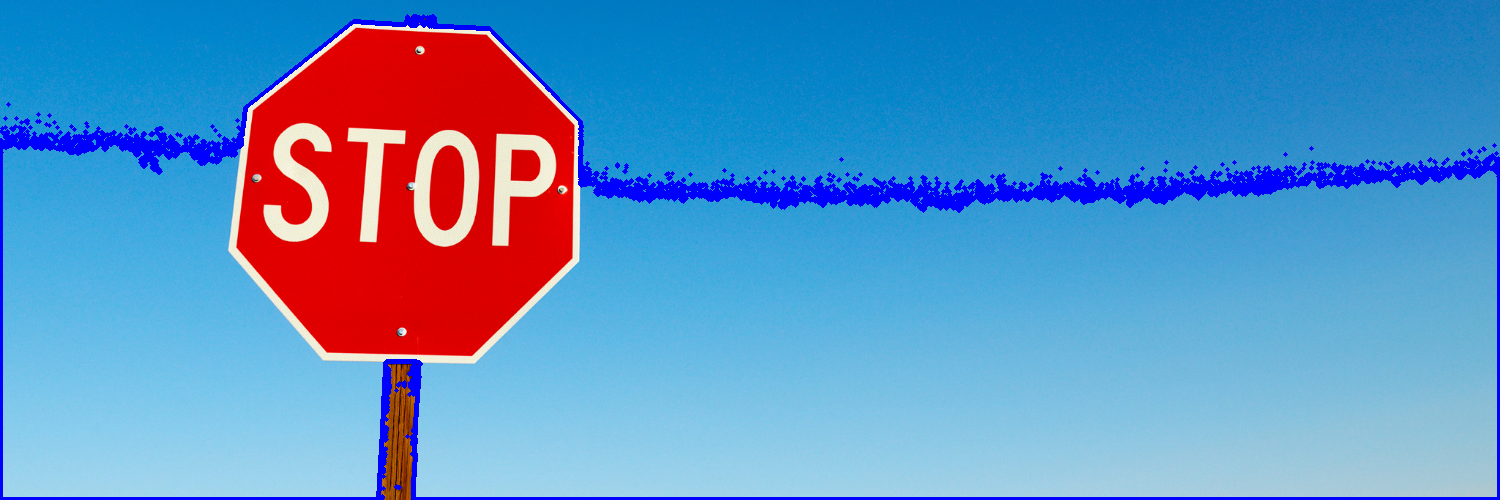
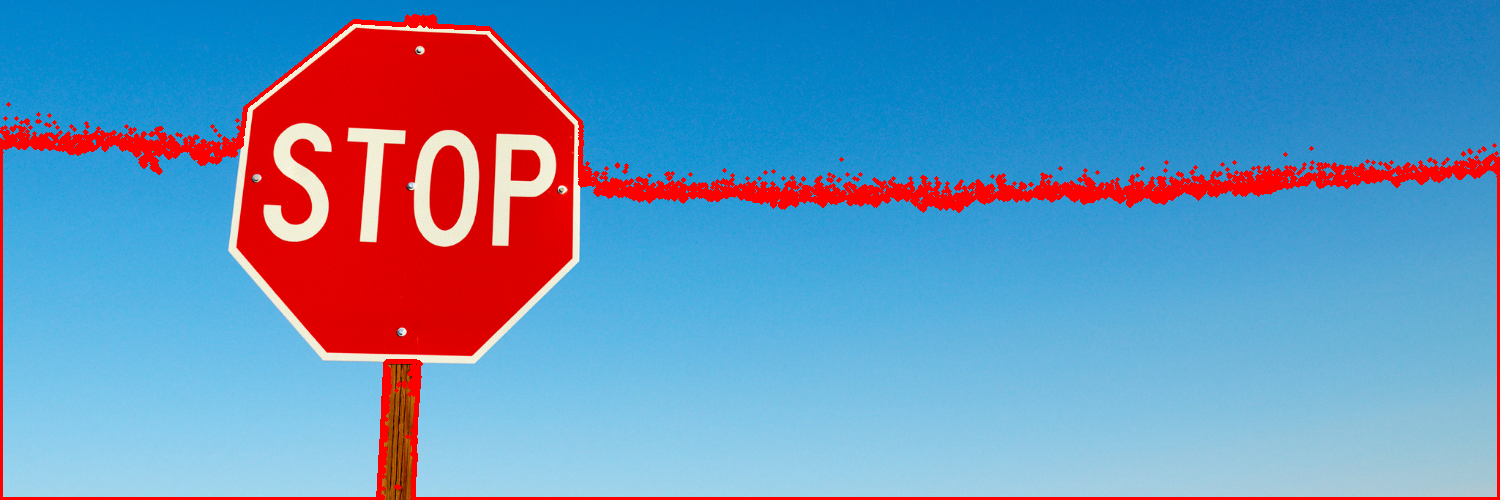
n

diff --git a/new.py b/new.py
@@ -8,7 +8,7 @@ img = cv2.imread("s.png")
 imgray = cv2.cvtColor(img,cv2.COLOR_BGR2GRAY)
 ret,thresh = cv2.threshold(imgray,127,255,0)
 im2, contours, hierarchy = cv2.findContours(thresh,cv2.RETR_EXTERNAL,cv2.CHAIN_APPROX_SIMPLE)
-cv2.drawContours(img, contours, -1, (255,0,0), 3)
+cv2.drawContours(img, contours, -1, (0,0,255), 3)
 cv2.imwrite("abc.png", img)
 #cv2.imshow("canny", cv2.imread("canny.jpg"))
 '''
